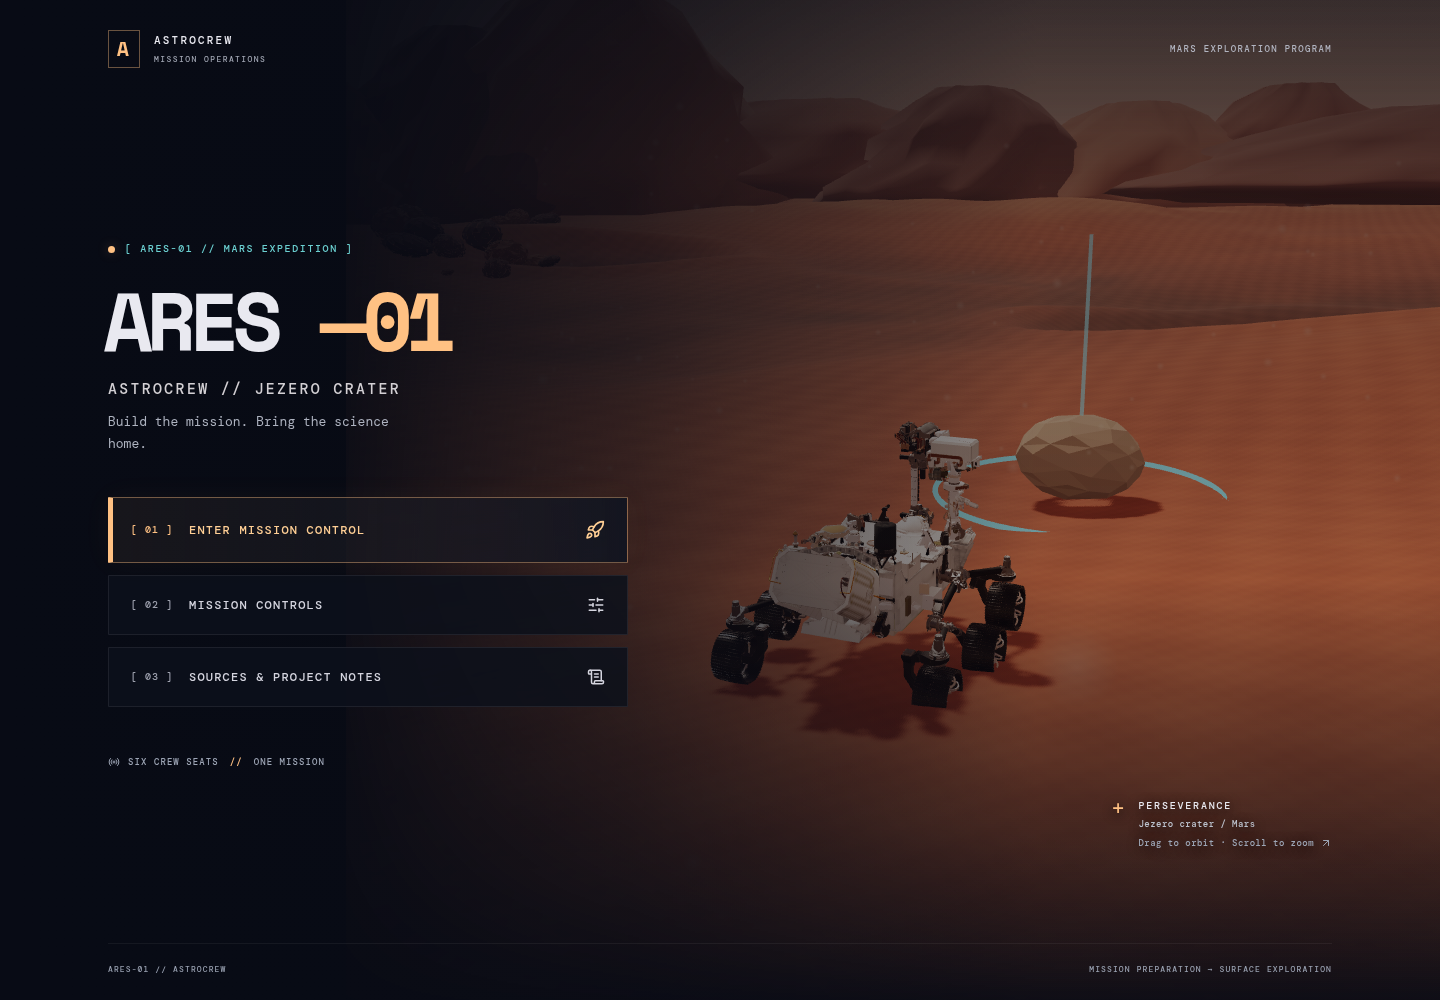
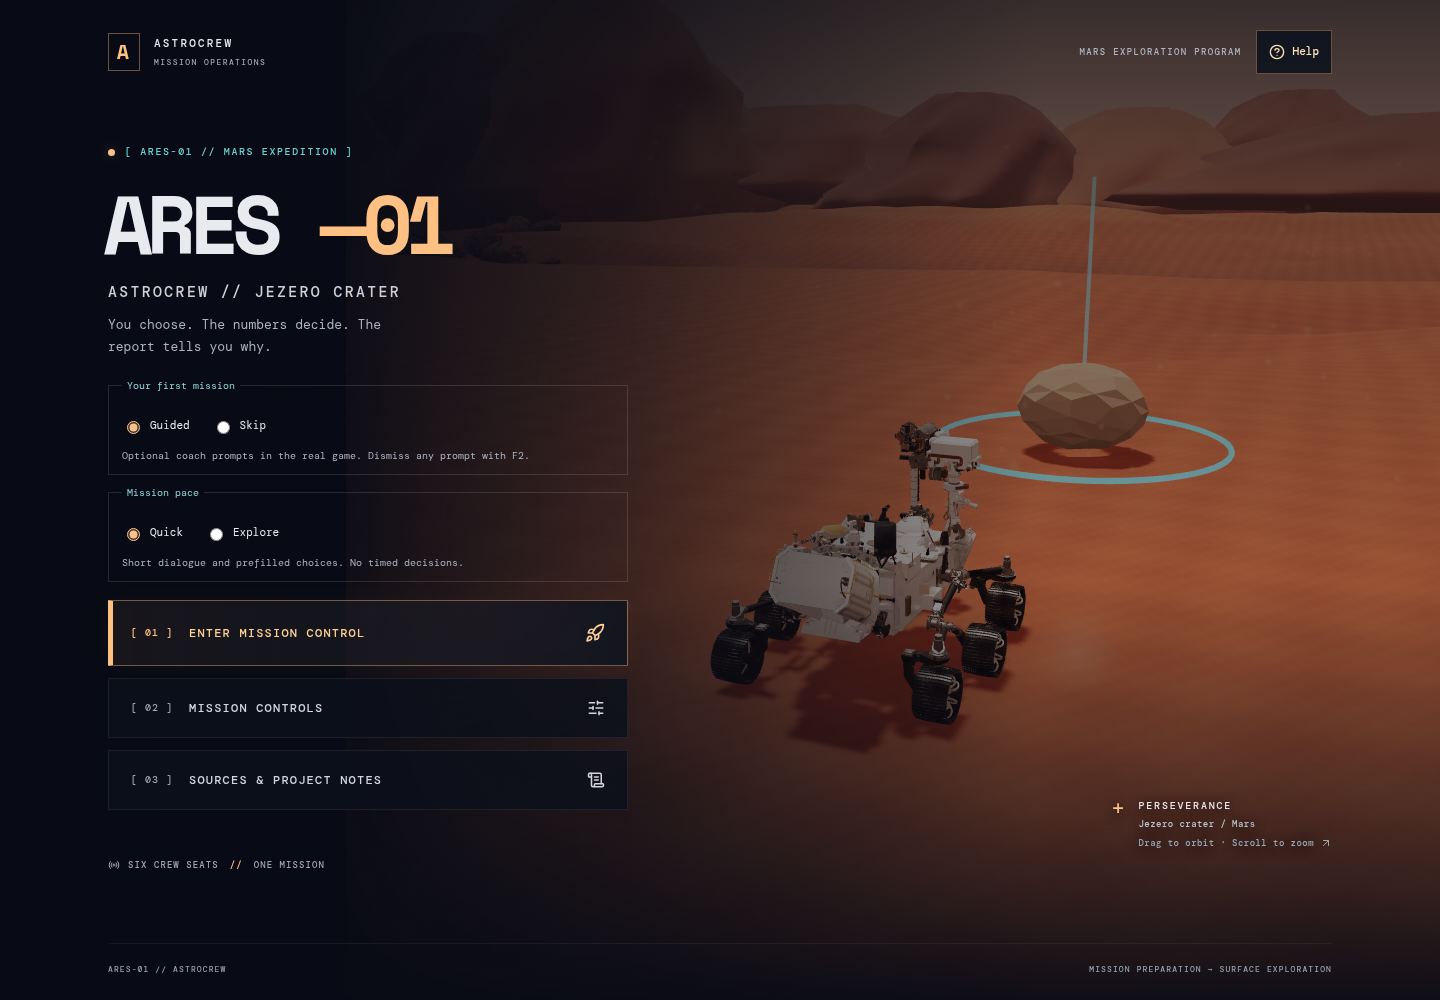
update README

diff --git a/README.md b/README.md
@@ -1,8 +1,33 @@
-# ARES-01 — Build the Mission. Bring the Science Home.
+# ![ARES-01 — Build the Mission. Bring the Science Home.](docs/assets/ares01-banner.svg)
 
-**Team ASTROCREW · 2026 NASA Space Apps Challenge · Space Mission Design Game**
+<p align="center">
+  <strong>Build the mission. Bring the science home.</strong><br>
+  <sub>TEAM ASTROCREW · NASA SPACE APPS 2026 · SPACE MISSION DESIGN GAME</sub>
+</p>
+
+<p align="center">
+  <a href="https://ares01-astrocrew.vercel.app/"><img src="docs/assets/play-game.svg" alt="Play ARES-01" width="160" height="42"></a>
+  &nbsp;
+  <a href="https://docs.google.com/presentation/d/1zIt9-3P3KQw-xXMPhGbLWeiW11gltPOr/edit?usp=sharing&amp;ouid=103721580173308071919&amp;rtpof=true&amp;sd=true"><img src="docs/assets/view-demo.svg" alt="View demo slides" width="160" height="42"></a>
+</p>
+
+<p align="center">
+  <a href="#what-players-do">Mission</a> &nbsp;·&nbsp;
+  <a href="#meet-team-astrocrew">Crew</a> &nbsp;·&nbsp;
+  <a href="#controls">Controls</a> &nbsp;·&nbsp;
+  <a href="#run-locally">Run locally</a> &nbsp;·&nbsp;
+  <a href="#nasa-data-and-resources">NASA data</a>
+</p>
 
 ARES-01 is a browser-based Mars mission design game featuring a Perseverance-inspired rover. Lead a six-person virtual crew, make engineering trade-offs, launch, explore Mars and return scientific observations. **Your decisions shape the mission's outcome.**
+
+<table align="center">
+  <tr>
+    <td align="center"><strong>06</strong><br><sub>CREW</sub></td>
+    <td align="center"><strong>03</strong><br><sub>SCENARIOS</sub></td>
+    <td align="center"><strong>07</strong><br><sub>INSTRUMENTS</sub></td>
+  </tr>
+</table>
 
 > **Independent educational project by ASTROCREW.** Not an official NASA product or endorsed by NASA or JPL.
 
@@ -20,27 +45,63 @@ This project addresses the **[2026 Space Mission Design Game challenge](https://
 
 The demo covers gameplay, engineering, teamwork, NASA references and technology.
 
+[![ARES-01 live game: the welcome screen and Perseverance-inspired rover on Mars](docs/assets/ares01-preview.png)](https://ares01-astrocrew.vercel.app/)
+
+<p align="center"><sub>Actual game screen · Runs in your browser · No account required</sub></p>
+
 ## Meet Team ASTROCREW
 
 ARES-01 is an **original project conceived, designed and directed by ASTROCREW**. The six in-game crew characters represent the team members:
 
-| Team member | In-game crew representation |
-| --- | --- |
-| **Rihabe Ouabine** | Rihabe |
-| **Kavi Lu** | Kavi |
-| **Choubik Houssam** | Houssam |
-| **Muhammad Huzaifa Saqib** | Huzaifa |
-| **Aaryan Shlok** | Aaryan |
-| **Lautaro Leguizamon** | Lautaro |
+<table>
+  <tr>
+    <td width="50%" valign="top"><sub>01 / RIHABE</sub><br><strong>Rihabe Ouabine</strong></td>
+    <td width="50%" valign="top"><sub>02 / KAVI</sub><br><strong>Kavi Lu</strong></td>
+  </tr>
+  <tr>
+    <td valign="top"><sub>03 / HOUSSAM</sub><br><strong>Choubik Houssam</strong></td>
+    <td valign="top"><sub>04 / HUZAIFA</sub><br><strong>Muhammad Huzaifa Saqib</strong></td>
+  </tr>
+  <tr>
+    <td valign="top"><sub>05 / AARYAN</sub><br><strong>Aaryan Shlok</strong></td>
+    <td valign="top"><sub>06 / LAUTARO</sub><br><strong>Lautaro Leguizamon</strong></td>
+  </tr>
+</table>
 
 ## What players do
 
-1. **Choose a role.** Join five rule-based teammates whose specialties shape their proposals.
-2. **Define the science.** Choose Jezero, Northeast Syrtis or Columbia Hills and rank geology, potential-biosignature context and environmental objectives.
-3. **Design the mission.** Choose from seven Perseverance instruments and balance payload, power reserve, communications, launch vehicle, relay orbit, launch window and budget.
-4. **Review engineering margins.** Check calculations, revise plans and make risk decisions where allowed.
-5. **Launch and explore.** Reach Mars, plan each sol, drive, investigate targets, operate instruments and choose observations to transmit.
-6. **Read the results.** Review science returned, resource trade-offs and decisions in the mission dossier; replay with different choices.
+<table>
+  <tr>
+    <td width="50%" valign="top">
+      <p><strong>01 · Choose a role</strong></p>
+      Join five rule-based teammates whose specialties shape their proposals.
+    </td>
+    <td width="50%" valign="top">
+      <p><strong>02 · Define the science</strong></p>
+      Choose Jezero, Northeast Syrtis or Columbia Hills and rank geology, potential-biosignature context and environmental objectives.
+    </td>
+  </tr>
+  <tr>
+    <td valign="top">
+      <p><strong>03 · Design the mission</strong></p>
+      Choose from seven Perseverance instruments and balance payload, power reserve, communications, launch vehicle, relay orbit, launch window and budget.
+    </td>
+    <td valign="top">
+      <p><strong>04 · Review engineering margins</strong></p>
+      Check calculations, revise plans and make risk decisions where allowed.
+    </td>
+  </tr>
+  <tr>
+    <td valign="top">
+      <p><strong>05 · Launch and explore</strong></p>
+      Reach Mars, plan each sol, drive, investigate targets, operate instruments and choose observations to transmit.
+    </td>
+    <td valign="top">
+      <p><strong>06 · Read the results</strong></p>
+      Review science returned, resource trade-offs and decisions in the mission dossier; replay with different choices.
+    </td>
+  </tr>
+</table>
 
 The game defines a **30-sol mission** and a **20-sol variant** for a budget override. Quieter sols can advance automatically. **Guided / Skip** tutorials and **Quick / Explore** pacing support different play styles.
 
@@ -52,26 +113,35 @@ The **$2.7 billion educational budget**, component prices and mission options in
 
 ## Controls
 
-| Context | Input | Action |
-| --- | --- | --- |
-| Mars surface | `W` / `A` / `S` / `D` or arrow keys | Drive and steer when the active sol plan permits movement |
-| Mars surface | `Space` | Brake |
-| Mars surface | `Shift` | Boost where permitted |
-| Mars surface | `E` or **Start Scan** | Examine an eligible target while stopped in range |
-| Mars surface | Drag / scroll | Orbit / zoom the camera |
-| Mission control | `WASD` / arrows or click floor | Navigate the crew/workshop room |
-| Mission control | `E` | Interact with a nearby crew member |
-| Mission control | Rover inspection markers | Focus on instruments |
+### On Mars
 
-**If the rover does not move:** select **Commit sol plan** when in **Planning** mode. The driving status explains restrictions from mission state, drive allocation, safe mode, damage or terrain.
+| Input | Action |
+| :--- | :--- |
+| <kbd>W</kbd> <kbd>A</kbd> <kbd>S</kbd> <kbd>D</kbd> / arrows | Drive and steer when the active sol plan permits movement |
+| <kbd>Space</kbd> | Brake |
+| <kbd>Shift</kbd> | Boost where permitted |
+| <kbd>E</kbd> / **Start Scan** | Examine an eligible target while stopped in range |
+| Drag / scroll | Orbit / zoom the camera |
+
+### In mission control
+
+| Input | Action |
+| :--- | :--- |
+| <kbd>WASD</kbd> / arrows / click floor | Navigate the crew/workshop room |
+| <kbd>E</kbd> | Interact with a nearby crew member |
+| Rover inspection markers | Focus on instruments |
+
+> **If the rover does not move:** select **Commit sol plan** when in **Planning** mode. The driving status explains restrictions from mission state, drive allocation, safe mode, damage or terrain.
 
 ## Technology
 
-- **React + TypeScript + Vite** — browser application
-- **Three.js** — 3D rover, crew, mission rooms and Martian terrain
-- **Zustand** — client-side state and persistence
-- **Playwright + Node test scripts** — UI, model, mission and engineering checks
-- **CSS** — responsive mission-control interface
+| Layer | Tools |
+| :--- | :--- |
+| Browser application | **React · TypeScript · Vite** |
+| 3D rover, crew, mission rooms and terrain | **Three.js** |
+| Client-side state and persistence | **Zustand** |
+| UI, model, mission and engineering checks | **Playwright · Node test scripts** |
+| Responsive mission-control interface | **CSS** |
 
 Gameplay runs entirely in the browser.
 
@@ -84,7 +154,12 @@ pnpm install --frozen-lockfile
 pnpm dev
 ```
 
-Open the URL printed by Vite. For a production build:
+Open the URL printed by Vite.
+
+<details>
+<summary><strong>Production build and npm commands</strong></summary>
+
+For a production build:
 
 ```bash
 pnpm build
@@ -93,7 +168,12 @@ pnpm preview
 
 For npm, use `npm ci`, `npm run dev`, `npm run build` and `npm run preview`.
 
+</details>
+
 ## Testing
+
+<details>
+<summary><strong>Engineering, campaign and browser checks</strong></summary>
 
 ```bash
 pnpm build
@@ -110,7 +190,9 @@ pnpm test:models
 
 Additional browser suites: `test:campaign-ui`, `test:tutorial-ui`, `test:mobility-ui` and `test:presentation`. Install Chromium with `pnpm exec playwright install chromium`, or set `CHROMIUM_PATH` to an existing installation.
 
-## NASA data, educational resources and scientific integrity
+</details>
+
+## NASA data and resources
 
 ARES-01 distinguishes three kinds of inputs:
 
@@ -146,18 +228,29 @@ See [asset licensing and attribution](docs/ASSET_LICENSING_AND_ATTRIBUTION.md) f
 
 **OpenAI Codex and ChatGPT** assisted with code, game content, 3D assets, iteration, testing, debugging, deployment and documentation. The team determined how to apply NASA/JPL scientific references.
 
-## Project documentation and current limitations
+## Project documentation
 
-- [`docs/GAMEPLAY.md`](docs/GAMEPLAY.md) — authoritative gameplay specification.
-- [`docs/NASA_ENGINEERING.md`](docs/NASA_ENGINEERING.md) — engineering models and NASA sources.
-- [`docs/ENGINEERING_DECISIONS_U1_U11.md`](docs/ENGINEERING_DECISIONS_U1_U11.md) — proposed choices and assumptions, including which require approval.
-- [`docs/OWNER_APPROVAL_ITEMS.md`](docs/OWNER_APPROVAL_ITEMS.md) — unresolved decision and approval register.
-- [`docs/COMPLIANCE_MATRIX.md`](docs/COMPLIANCE_MATRIX.md) — requirements traceability; its original baseline classifications may predate recent code changes.
-- [`docs/ARES01_UI_REDESIGN_REPORT.md`](docs/ARES01_UI_REDESIGN_REPORT.md) — interface changes, screenshots and testing notes.
-- [`docs/ROVER_MOVEMENT_FIX_REPORT.md`](docs/ROVER_MOVEMENT_FIX_REPORT.md) — driving and sol-plan interaction repair.
+<details>
+<summary><strong>Browse the design, engineering and implementation references</strong></summary>
 
-Full mission integration, low-end GPU performance and asset clearance remain subjects of release validation. Older audits describe earlier versions; consult the running build and current tests for present behavior.
+| Reference | Contents |
+| :--- | :--- |
+| [Gameplay specification](docs/GAMEPLAY.md) | Authoritative gameplay specification. |
+| [NASA engineering](docs/NASA_ENGINEERING.md) | Engineering models and NASA sources. |
+| [Engineering decisions](docs/ENGINEERING_DECISIONS_U1_U11.md) | Proposed choices and assumptions, including which require approval. |
+| [Open decisions](docs/OWNER_APPROVAL_ITEMS.md) | Unresolved decision and approval register. |
+| [Requirements traceability](docs/COMPLIANCE_MATRIX.md) | Original baseline classifications may predate recent code changes. |
+| [Interface report](docs/ARES01_UI_REDESIGN_REPORT.md) | Interface changes, screenshots and testing notes. |
+| [Rover movement report](docs/ROVER_MOVEMENT_FIX_REPORT.md) | Driving and sol-plan interaction repair. |
+
+</details>
+
+> **Current limitations**<br>
+> Full mission integration, low-end GPU performance and asset clearance remain subjects of release validation. Older audits describe earlier versions; consult the running build and current tests for present behavior.
 
 ---
 
-**ARES-01 · Team ASTROCREW** — Build the mission. Bring the science home.
+<p align="center">
+  <strong>ARES-01 · TEAM ASTROCREW</strong><br>
+  <sub>Build the mission. Bring the science home.</sub>
+</p>
